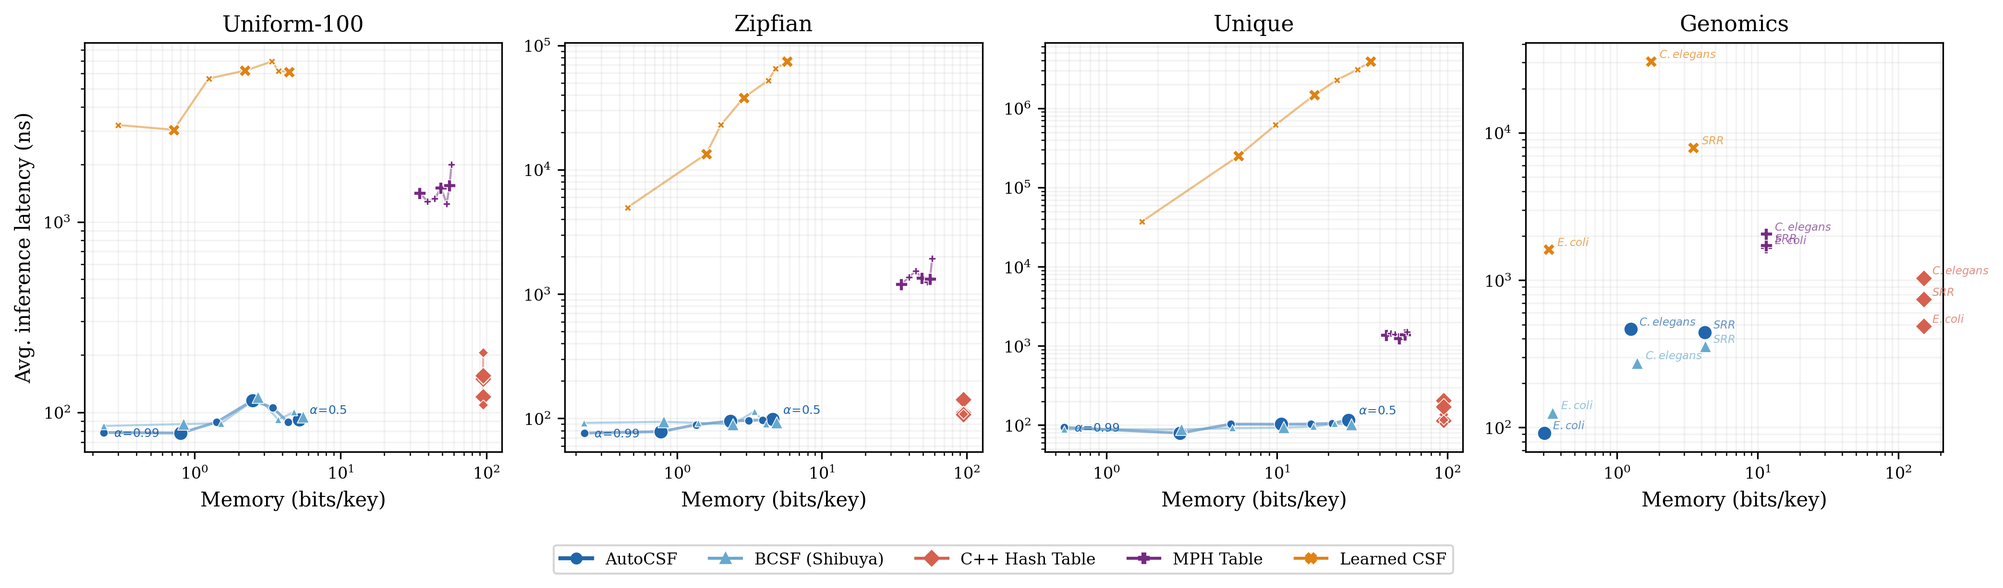
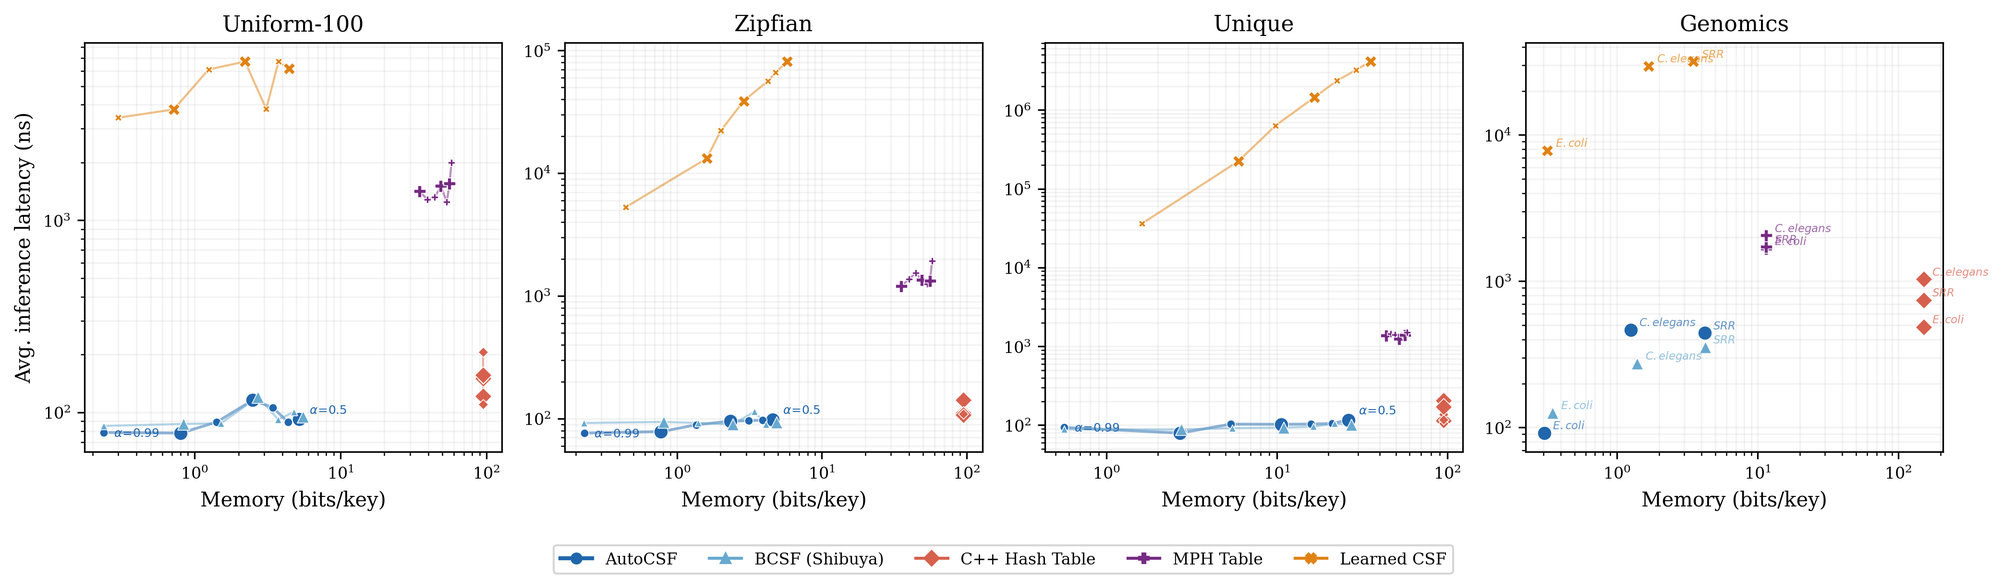
changes

diff --git a/artifacts/AutoCSF/AutoCSF.md b/artifacts/AutoCSF/AutoCSF.md
@@ -456,7 +456,7 @@ which, as expected, is greater than 0.
 \includegraphics[width=\textwidth]{vldb2026/figures/theory_validation/alpha_sweep_uniform_100.png}
 \end{center}
 
-\caption{Results of sweeping $\alpha$ for each distribution across all five filter types.}
+\caption{Results of sweeping $\alpha$ for each distribution across all four filter types. Each panel plots the lower bound (blue dashed), best empirical savings (red dashed), and the upper bound at the theory-guided and empirical-best parameters (light and dark blue solid). The vertical dashed line marks where the lower bound crosses zero.}
 \label{fig:alpha_sweep}
 \end{figure*}
 
@@ -466,7 +466,7 @@ The AutoCSF algorithm is based on three theoretical claims:
     \item The sign of the lower bound provides a reliable decision criterion for when filtering is beneficial.
     \item Maximizing the lower bound over the filter's parameter space yields the parameter with the largest provable space savings.
 \end{enumerate}
-In this section, we evaluate each of these claims empirically. Our goal is to determine whether the bounds are tight enough to be practically useful, whether the decision criterion produces false positives or false negatives, and how much regret (if any) the theory-guided parameter incurs relative to an exhaustive search over all discrete parameter settings.
+In this section, we evaluate each of these claims empirically. Our goal is to determine whether the bounds are tight enough to be practically useful, whether the decision criterion produces false positives or false negatives, and how much space the theory-guided parameter sacrifices, if any, relative to an exhaustive search over all discrete parameter settings.
 
 We construct synthetic key-value datasets that sweep the majority fraction $\alpha$ from 0.50 to 0.99 and evaluate three minority value distributions that span a range of minority entropy.
 \begin{itemize}
@@ -474,9 +474,9 @@ We construct synthetic key-value datasets that sweep the majority fraction $\alp
     \item \textbf{Zipfian}: power-law with exponent $s = 1.5$.
     \item \textbf{Uniform-100}: values drawn uniformly from 100 symbols.
 \end{itemize}
-We evaluated five types of filters: XOR filter, binary fuse filter, and Bloom filters with $k \in \{1, 2, 3\}$ hash functions.
+We evaluated four types of filters: XOR filter, binary fuse filter, and Bloom filters with $k \in \{1, 3\}$ hash functions.
 
-Figure ~\ref{fig:alpha_sweep} shows the results of sweeping $\alpha$ for each distribution across all five filter types. In each panel, the shaded region represents the gap between our lower bound (Theorem 5.2) and upper bound (Theorem 5.4), the green curve shows the empirical savings achieved by the theory-guided parameter, and the red curve shows the best empirical savings found via exhaustive search.
+Figure~\ref{fig:alpha_sweep} shows the results of sweeping $\alpha$ for each distribution across all four filter types. Each panel plots four curves: the lower bound (blue dashed), best empirical savings (red dashed), and the upper bound evaluated at the theory-guided parameter (light blue solid) and at the empirical-best parameter (dark blue solid). A vertical dashed line marks where the lower bound crosses zero.
 
 \begin{figure*}[!t]
 \begin{center}
@@ -507,14 +507,14 @@ Figure ~\ref{fig:alpha_sweep} shows the results of sweeping $\alpha$ for each di
 \end{center}
 
 
-\caption{Results of sweeping $\epsilon$ for each distribution across all five filter types.}
+\caption{Results of sweeping $\epsilon$ for each distribution across all four filter types.}
 \label{fig:epsilon_sweep}
 \end{figure*}
 
 
 \subsection{Bound Tightness}
 
-Figure~\ref{fig:alpha_sweep} shows four curves per panel. The \emph{lower bound} (blue dashed) is Theorem~5.2 evaluated at the discrete parameter $\varepsilon_{\mathrm{LB}}$ that maximizes the lower bound. The \emph{best empirical} curve (red) is the measured bits/key saved at the discrete parameter $\varepsilon_{\mathrm{emp}}$ that yields the largest savings, found by exhaustive filter-parameter search  measured over real AutoCSF objects. We also plot the upper bound (Theorem~5.4) evaluated at two $\varepsilon$ values: $\varepsilon_{\mathrm{LB}}$ and $\varepsilon_{\mathrm{emp}}$.
+Figure~\ref{fig:alpha_sweep} shows four curves per panel. The \emph{lower bound} (blue dashed) is Theorem~5.2 evaluated at the discrete parameter $\varepsilon_{\mathrm{LB}}$ that maximizes the lower bound. The \emph{best empirical} curve (red dashed) is the measured bits/key saved at the discrete parameter $\varepsilon_{\mathrm{emp}}$ that yields the largest savings, found by exhaustive search over discrete filter parameters. The \emph{UB at $\varepsilon_{\mathrm{LB}}$} curve (light blue solid) is the upper bound (Theorem~5.4) evaluated at the theory-guided parameter, and the \emph{UB at $\varepsilon_{\mathrm{emp}}$} curve (dark blue solid) is the upper bound at the empirical-best parameter. A vertical dashed line marks the $\alpha$ value where the lower bound crosses zero, indicating the decision boundary for filter augmentation.
 
 We observe that across all filter-distribution combinations and all 50 values of $\alpha$, the empirical savings consistently fall between the lower bound and the upper bound at $\varepsilon_{\mathrm{emp}}$. We note that this is not a formal proof of correctness. The bounds assume a continuous $\varepsilon$ while the experiments operate over discrete filter parameters, and the measured space includes implementation overheads (metadata, alignment) not captured by the theory. Nonetheless, empirical values stay within the predicted range across all configurations, which provides strong evidence that the bounds are practically valid.
 
@@ -527,7 +527,7 @@ To further validate AutoCSF, we sweep the false positive rate $\varepsilon$ acro
 
 \textbf{Decision criterion.} The lower bound crossing zero provides a decision boundary: when $\text{LB} > 0$ at the theory-optimal $\varepsilon^*$, AutoCSF recommends filtering; otherwise, it defaults to a plain CSF. Across all filter types, distributions, and $\alpha$ values in the alpha sweep, we find that whenever the lower bound recommends filtering, the empirical savings are positive, i.e. the criterion never recommends a filter that increases space. The criterion is conservative, however, for the unique distribution: there is a range of $\alpha$ values (roughly $0.71$--$0.80$ for XOR) where filtering produces small empirical savings (${\sim}0.05$--$0.2$ bits/key) but the lower bound remains negative. This gap is driven by the $n/N$ term, which is large for the unique distribution where $n \approx N(1-\alpha)$. For zipfian and uniform-100, where $n/N \approx 0$, the lower bound crossing aligns closely with the point at which filtering first becomes empirically helpful.
 
-\textbf{Parameter selection.} In practice, AutoCSF does not need to solve for the continuous optimum $\varepsilon^*$. Instead, it enumerates all discrete filter configurations (e.g., fingerprint\_bits $\in \{1, \ldots, 8\}$ for XOR filters, or all $(k, \text{bpe})$ pairs for Bloom filters) and selects the configuration whose lower bound is largest. This discrete search is inexpensive. The parameter space is small and sidesteps any mismatch between the continuous optimum and the nearest discrete parameter. To evaluate how well the lower bound serves as a proxy for actual savings, we compare the parameter selected by the lower bound against the empirically optimal parameter found by exhaustive search. The two agree in the large majority of cases, and when they disagree it is always by a single discrete step, with the theory-guided parameter saving at most $0.02$ bits/key less than the empirical optimum.
+\textbf{Parameter selection.} In practice, each filter type admits only a small set of discrete configurations (e.g., fingerprint\_bits $\in \{1, \ldots, 8\}$ for XOR filters, or all $(k, \text{bpe})$ pairs for Bloom filters), each corresponding to a specific $\varepsilon$. AutoCSF evaluates the lower bound at each available $\varepsilon$ and selects the configuration whose lower bound is largest. This search is inexpensive since the parameter space is small, and it avoids any mismatch between a continuous optimum and the discrete $\varepsilon$ values that filters can actually realize. To evaluate how well the lower bound serves as a proxy for actual savings, we compare the parameter selected by the lower bound against the empirically optimal parameter found by exhaustive search. The two agree in the large majority of cases, and when they disagree it is always by a single discrete step, with the theory-guided parameter saving at most $0.02$ bits/key less than the empirical optimum.
 
 \subsection{Comparison with Prior Work}
 
@@ -542,7 +542,7 @@ The closest prior work to AutoCSF is the Bloom-enhanced CSF (BCSF) of Shibuya et
 To compare the two approaches, we restrict AutoCSF to Bloom filters only (selecting the best $(k, \text{bpe})$ pair via the lower bound) and measure the resulting bits per key across all three distributions. Figure~\ref{fig:shibuya_bpk} shows the measured bits per key for each method alongside a no-filter baseline.
 
 
-The comparison reveals a clear difference in the \emph{decision} to filter. At low $\alpha$, the heuristic recommends filter configurations that \emph{increase} space usage relative to a plain CSF, with the heuristic curve exceeding the no-filter baseline by up to 1 bit/key for the unique distribution at $\alpha = 0.50$. This gap persists across all three distributions up to $\alpha \approx 0.7$--$0.8$ depending on the minority entropy. AutoCSF avoids this by defaulting to a plain CSF whenever the lower bound is negative. When filtering \emph{is} beneficial (roughly $\alpha \gtrsim 0.8$), both methods achieve comparable space usage, with AutoCSF matching or slightly improving upon the heuristic. These results confirm that AutoCSF improves upon the heuristic both in the decision of when to apply a filter and in the selection of filter parameters.
+The comparison reveals a clear difference in the \emph{decision} to filter. At low $\alpha$, the heuristic recommends filter configurations that \emph{increase} space usage relative to a plain CSF, with the heuristic curve exceeding the no-filter baseline by up to 1 bit/key for the unique distribution at $\alpha = 0.50$. This gap persists across all three distributions up to $\alpha \approx 0.7$--$0.8$ depending on the minority entropy. AutoCSF avoids this by defaulting to a plain CSF whenever the lower bound is negative. When filtering \emph{is} beneficial (roughly $\alpha \gtrsim 0.8$), both methods achieve comparable space usage, with AutoCSF matching or improving upon the heuristic. These results confirm that AutoCSF improves upon the heuristic both in the decision of when to apply a filter and in the selection of filter parameters.
 
 
 
@@ -561,7 +561,7 @@ We restrict both methods to Bloom filters in this comparison for fairness, since
 \section{Experiments}
 
 
-The previous section validates AutoCSF's theoretical bounds and decision criterion in isolation. We now evaluate AutoCSF as a complete, end-to-end index and compare it against four baselines that span the landscape of practical approaches to static key-value indexing. Our goal is to answer three questions: (1)~Does AutoCSF's theory-guided filter selection translate into real space savings over competing methods? (2)~What is the latency cost, if any, of filter-augmented CSFs? (3)~How do these trade-offs change on real-world genomics workloads where the value distributions are not synthetically controlled?
+The previous section validates AutoCSF's theoretical bounds and decision criterion in isolation. We now evaluate AutoCSF as a complete, end-to-end index and compare it against four baselines that span the landscape of practical approaches to static key-value indexing. Our goal is to answer three questions: (1)~Does AutoCSF's theory-guided filter selection translate into real space savings over competing methods? (2)~What are the latency and construction costs, if any, of filter-augmented CSFs? (3)~How do these trade-offs change on real-world workloads where the value distributions are not synthetically controlled?
 
 \subsection{Baselines}
 
@@ -570,16 +570,16 @@ We compare AutoCSF against the following methods:
 \begin{itemize}
 \item \textbf{BCSF (Shibuya)}~\cite{shibuya2022space}. The Bloom-enhanced CSF described in Section~3. We use \citeauthor{shibuya2022space}'s heuristic cost model to set the Bloom filter parameters. This baseline isolates the effect of AutoCSF's improved parameter selection: both methods use a CSF with a pre-filter, but differ in how the filter parameters are chosen.
 
-\item \textbf{Sux4J CSF}~\cite{genuzio2020fast}. The standalone CSF implementation in Java. This is the CSF without any filter augmentation, representing the ``plain CSF'' baseline that AutoCSF improves upon when $\alpha$ is sufficiently large. 
+\item \textbf{C++ Hash Table}. A standard \texttt{std::unordered\_map} storing all key-value pairs. This baseline represents the naive approach with no compression, providing a reference point for memory usage and query latency.
 
 \item \textbf{MPH Table}. A minimal perfect hash function (via Sux4J's GOV construction~\cite{genuzio2020fast}) paired with a compact value array. This is a distribution-agnostic baseline as it does not exploit value skew and its memory usage depends only on the vocabulary size.
 
-\item \textbf{Learned CSF}~\cite{hermann2025learned}. A learned static function that replaces the linear-system solver in a CSF with a small neural network trained to predict Huffman codes from keys. The model is augmented with a Bloom filter and a correction table. This method typically achieves the smallest memory footprint, but at the cost of significantly higher query latency and construction time due to model training.
+\item \textbf{Learned CSF}~\cite{hermann2025learned}. A learned static function that replaces the linear-system solver in a CSF with a small neural network trained to predict Huffman codes from keys. The model is augmented with a Bloom filter and a correction table. On low-entropy distributions this method can achieve a smaller memory footprint than AutoCSF, but at the cost of  higher query latency and construction time due to model training.
 \end{itemize}
 
 \subsection{Setup}
 
-\textbf{Synthetic datasets.} We generate key-value datasets with $N = 100{,}000$ keys, sweeping the majority fraction $\alpha$ from 0.50 to 0.99. The majority value is assigned to an $\alpha$-fraction of keys uniformly at random; the remaining $(1-\alpha)N$ minority keys draw values from one of three distributions: \emph{Uniform-100} (100 equally likely symbols), \emph{Zipfian} (power-law with exponent $s = 1.5$), and \emph{Unique} (every minority key has a distinct value). These distributions span a wide range of minority entropy, from low (Uniform-100) to maximal (Unique), and stress-test different aspects of each method's compression strategy.
+\textbf{Synthetic datasets.} We generate key-value datasets with $N = 100{,}000$ keys, sweeping the majority fraction $\alpha$ from 0.50 to 0.99. The majority value is assigned to an $\alpha$-fraction of keys uniformly at random; the remaining $(1-\alpha)N$ minority keys draw values from one of three distributions: \emph{Uniform-100} (100 equally likely symbols), \emph{Zipfian} (power-law with exponent $s = 1.5$), and \emph{Unique} (every minority key has a distinct value). These distributions span a wide range of minority entropy and stress-test different aspects of each method's compression strategy.
 
 \textbf{Genomics datasets.} We evaluate on the three real $k$-mer count datasets used in \cite{shibuya2022space} derived from whole-genome sequencing data, using $k = 15$:
 \begin{itemize}
@@ -589,7 +589,7 @@ We compare AutoCSF against the following methods:
 \end{itemize}
 These datasets exhibit the diversity of real genomics workloads: E.\ coli has extreme skew ($\alpha = 0.97$) with very few distinct values, SRR has low skew ($\alpha = 0.20$) with moderate vocabulary, and C.\ elegans is a large-scale dataset (70M keys) with intermediate skew.
 
-\textbf{Metrics.} We report three metrics: \emph{memory} in bits per key (bpk), \emph{query latency} as the mean inference time per key in nanoseconds, and \emph{construction time} in seconds. For AutoCSF and BCSF, we use binary fuse filters~\cite{graf2020xor}, which offer lower false positive rates per bit than Bloom filters. All experiments are run on an M4 Macbook Pro.
+\textbf{Metrics.} We report three metrics: \emph{memory} in bits per key (bpk), \emph{query latency} as the mean inference time per key in nanoseconds, and \emph{construction time} in seconds. For AutoCSF and BCSF, we use binary fuse filters~\cite{graf2020xor}, which offer lower false positive rates per bit than Bloom filters. 
 
 \subsection{Synthetic Benchmarks}
 
@@ -603,21 +603,12 @@ These datasets exhibit the diversity of real genomics workloads: E.\ coli has ex
 \end{figure*}
 
 
-Several patterns emerge from the Pareto plot. AutoCSF and BCSF consistently occupy the lower-left corner of the Pareto frontier---low memory \emph{and} low latency---across all three distributions. Sux4J CSF uses comparable memory at low $\alpha$ but carries a latency penalty of 30--90\% over AutoCSF (due to our faster C++ implementation), and its memory advantage disappears at high $\alpha$ where it cannot exploit the majority value. MPH Table uses 5--20$\times$ more memory than AutoCSF and its latency is 4--7$\times$ higher. Learned CSF achieves the tightest memory on several operating points, most notably on the Unique distribution, where its learned model captures per-key structure that analytical methods cannot exploit (e.g., 6.9~bpk vs.\ AutoCSF's 10.6~bpk at $\alpha = 0.8$). However, this memory advantage comes at a steep cost in query latency: 1--4 orders of magnitude higher than AutoCSF, ranging from 6$\mu$s on Uniform-100 to 77$\mu$s on Zipfian at $\alpha = 0.5$ and up to 4 \emph{seconds} per query on Unique at $\alpha = 0.5$. The log-log scale in Figure~\ref{fig:pareto} is necessary to display these extremes on the same axes.
-
-\textbf{Memory scaling with $\alpha$.} Figure~\ref{fig:mem_alpha} isolates the memory dimension by plotting bits per key against $\alpha$ for each distribution. As $\alpha$ increases, all CSF-based methods improve because there is less minority entropy to encode. AutoCSF and BCSF track each other closely, with AutoCSF achieving a 5--10\% memory advantage due to better filter parameter selection. Sux4J CSF is competitive at low $\alpha$ (e.g., 5.0 vs.\ 5.2~bpk at $\alpha = 0.5$, Uniform-100) but diverges at high $\alpha$: at $\alpha = 0.99$, Sux4J uses 1.4~bpk versus AutoCSF's 0.2~bpk, a 7$\times$ gap, because it cannot filter out the majority value. MPH Table's memory \emph{increases} with $\alpha$ (from 35 to 58~bpk) because its per-key cost is fixed by the vocabulary size, not the frequency distribution.
-
-\begin{figure*}[t]
-\centering
-\includegraphics[width=\textwidth]{vldb2026/figures/theory_validation/paper_memory_vs_alpha.png}
-\caption{Memory (bits/key) vs.\ majority fraction $\alpha$ for the three synthetic distributions. AutoCSF and BCSF exploit increasing skew; Sux4J CSF improves more slowly; MPH Table is distribution-agnostic.}
-\label{fig:mem_alpha}
-\end{figure*}
+Several patterns emerge from the Pareto plot. AutoCSF and BCSF consistently occupy the lower-left corner of the Pareto frontier---low memory \emph{and} low latency---across all three distributions. The hash table offers competitive latency (107--204~ns) but does not compress the data. MPH Table uses 7--70$\times$ more memory than AutoCSF and its latency is 10--20$\times$ higher. Learned CSF achieves the tightest memory on Uniform-100 (e.g., 4.4 vs.\ 5.2~bpk at $\alpha = 0.5$), but on Zipfian and Unique, AutoCSF matches or outperforms it in memory while maintaining 2--4 orders of magnitude lower query latency. On Unique, Learned CSF uses 35.4~bpk versus AutoCSF's 26.3~bpk at $\alpha = 0.5$, with query latency of 4.1 \emph{seconds} compared to AutoCSF's 116~ns. The log-log scale in Figure~\ref{fig:pareto} is necessary to display these extremes on the same axes.
 
 
-The Unique distribution is the hardest case for all methods: at $\alpha = 0.5$, half the keys have distinct values, so the CSF must store nearly $\log_2(N/2) \approx 16$ bits of entropy per minority key. AutoCSF (26.3~bpk) outperforms Sux4J CSF (41.9~bpk) by 37\%  due to implementation differences in our C++ package. Learned CSF achieves the best memory on this distribution (11.4~bpk at $\alpha = 0.5$), as the learned model can exploit per-key patterns that are invisible to Huffman coding. However, as Table~\ref{tab:synthetic} shows, this memory advantage comes at higher latency (4M~ns) and construction time (16 minutes). At higher skew ($\alpha = 0.95$), AutoCSF closes the gap to 2.7~bpk vs.\ Learned CSF's 3.5~bpk, with $1{,}300\times$ faster queries.
+The Unique distribution is the hardest case for all methods: at $\alpha = 0.5$, half the keys have distinct values, so the CSF must store nearly $\log_2(N/2) \approx 16$ bits of entropy per minority key. AutoCSF achieves 26.3~bpk, outperforming Learned CSF (35.4~bpk) by 26\% while being $35{,}000\times$ faster in query latency (116~ns vs.\ 4.1M~ns) and $15{,}000\times$ faster to construct (0.067~s vs.\ 1{,}011~s). At higher skew ($\alpha = 0.95$), AutoCSF widens the gap to 2.7~bpk vs.\ Learned CSF's 5.9~bpk, with $2{,}800\times$ faster queries.
 
-\textbf{Construction time.} Table~\ref{tab:synthetic} reports memory, latency, and construction time for all five methods at $\alpha \in \{0.5, 0.8, 0.95\}$. AutoCSF and BCSF build in under 0.1 seconds across all configurations. Sux4J CSF is 5--10$\times$ slower due to implementation improvements (our implementation in C++). MPH Table is comparable to Sux4J in construction time. Learned CSF is the most expensive to build: 5--983 seconds depending on distribution complexity, with the Unique distribution requiring over 16 minutes at $\alpha = 0.5$ due to the large number of distinct values the model must learn. At $\alpha = 0.95$ on Uniform-100, where Learned CSF's memory advantage over AutoCSF is only 0.1~bpk, it takes 320$\times$ longer to construct.
+\textbf{Construction time.} Table~\ref{tab:synthetic} reports memory, latency, and construction time for all five methods at $\alpha \in \{0.5, 0.8, 0.95\}$. AutoCSF and BCSF build in under 0.1 seconds across all configurations. C++ Hash Table is the fastest to construct (${\sim}0.006$~s). MPH Table builds in 0.4--0.6 seconds. Learned CSF is the most expensive to build: 7--1{,}011 seconds depending on distribution complexity, with the Unique distribution requiring over 16 minutes at $\alpha = 0.5$ due to the large number of distinct values the model must learn. At $\alpha = 0.95$ on Uniform-100, where Learned CSF's memory advantage over AutoCSF is only 0.1~bpk, it takes 719$\times$ longer to construct.
 
 \begin{table*}[t]
 \centering
@@ -628,27 +619,27 @@ Method & bpk & ns & build (s) & bpk & ns & build (s) & bpk & ns & build (s) \\
 \midrule
 \multicolumn{10}{c}{\emph{Uniform-100}} \\
 \midrule
-AutoCSF & 5.2 & \textbf{239} & 0.043 & 2.5 & 255 & \textbf{0.027} & 0.8 & \textbf{178} & \textbf{0.018} \\
-BCSF (Shibuya) & 5.5 & 319 & \textbf{0.042} & 2.7 & \textbf{250} & 0.027 & 0.8 & 214 & 0.019 \\
-Sux4J CSF & 5.0 & 346 & 0.415 & 2.8 & 337 & 0.184 & 1.7 & 326 & 0.189 \\
+AutoCSF & 5.2 & \textbf{92} & 0.030 & 2.5 & \textbf{116} & 0.030 & 0.8 & \textbf{78} & 0.013 \\
+BCSF (Shibuya) & 5.5 & 95 & 0.028 & 2.7 & 120 & 0.020 & 0.8 & 87 & 0.008 \\
+C++ Hash Table & 95.1 & 150 & \textbf{0.006} & 95.1 & 121 & \textbf{0.006} & 95.1 & 157 & \textbf{0.007} \\
 MPH Table & 35.0 & 1412 & 0.569 & 49.0 & 1505 & 0.438 & 55.9 & 1551 & 0.572 \\
-Learned CSF & \textbf{4.4} & 6435 & 5.173 & \textbf{2.2} & 6160 & 5.480 & \textbf{0.7} & 3199 & 5.733 \\
+Learned CSF & \textbf{4.4} & 6153 & 6.977 & \textbf{2.2} & 6708 & 8.562 & \textbf{0.7} & 3779 & 9.348 \\
 \midrule
 \multicolumn{10}{c}{\emph{Zipfian}} \\
 \midrule
-AutoCSF & \textbf{4.6} & \textbf{265} & 0.036 & \textbf{2.3} & \textbf{239} & \textbf{0.023} & \textbf{0.8} & \textbf{180} & \textbf{0.017} \\
-BCSF (Shibuya) & 4.9 & 283 & \textbf{0.035} & 2.4 & 247 & 0.027 & 0.8 & 229 & 0.019 \\
-Sux4J CSF & 5.0 & 397 & 0.291 & 2.9 & 355 & 0.185 & 1.8 & 333 & 0.169 \\
+AutoCSF & \textbf{4.6} & 98 & 0.025 & \textbf{2.3} & 95 & 0.014 & \textbf{0.8} & \textbf{78} & 0.007 \\
+BCSF (Shibuya) & 4.9 & \textbf{93} & 0.026 & 2.4 & \textbf{90} & 0.013 & 0.8 & 94 & 0.008 \\
+C++ Hash Table & 95.1 & 111 & \textbf{0.006} & 95.1 & 142 & \textbf{0.006} & 95.1 & 107 & \textbf{0.006} \\
 MPH Table & 35.4 & 1195 & 0.569 & 49.2 & 1344 & 0.490 & 56.0 & 1323 & 0.470 \\
-Learned CSF & 4.9 & 76811 & 32.064 & 2.4 & 39387 & 22.474 & 1.4 & 13530 & 13.284 \\
+Learned CSF & 5.8 & 81357 & 38.283 & 2.9 & 38756 & 28.065 & 1.6 & 13190 & 16.711 \\
 \midrule
 \multicolumn{10}{c}{\emph{Unique}} \\
 \midrule
-AutoCSF & 26.3 & \textbf{372} & \textbf{0.081} & 10.6 & \textbf{282} & \textbf{0.047} & \textbf{2.7} & \textbf{188} & \textbf{0.025} \\
-BCSF (Shibuya) & 27.3 & 400 & 0.084 & 11.0 & 341 & 0.051 & 2.7 & 236 & 0.026 \\
-Sux4J CSF & 41.9 & 667 & 0.559 & 17.2 & 377 & 0.339 & 5.1 & 330 & 0.198 \\
+AutoCSF & \textbf{26.3} & 116 & 0.067 & \textbf{10.6} & 103 & 0.032 & \textbf{2.7} & \textbf{79} & 0.012 \\
+BCSF (Shibuya) & 27.3 & \textbf{101} & 0.057 & 11.0 & \textbf{93} & 0.026 & 2.7 & 88 & 0.012 \\
+C++ Hash Table & 95.1 & 114 & \textbf{0.007} & 95.1 & 204 & \textbf{0.006} & 95.1 & 171 & \textbf{0.006} \\
 MPH Table & 43.9 & 1363 & 0.496 & 52.2 & 1236 & 0.487 & 56.4 & 1390 & 0.472 \\
-Learned CSF & \textbf{11.4} & 3997545 & 983.000 & \textbf{6.9} & 1431918 & 359.657 & 3.5 & 243241 & 85.772 \\
+Learned CSF & 35.4 & 4123112 & 1011.367 & 16.5 & 1440552 & 381.668 & 5.9 & 223807 & 69.562 \\
 \bottomrule
 \end{tabular}
 \caption{Synthetic benchmark results ($N = 100{,}000$). Memory in bits/key (bpk), query latency in nanoseconds (ns), and construction time in seconds. \textbf{Bold} indicates best in each column.}
@@ -665,29 +656,28 @@ Table~\ref{tab:genomics} reports results on the three genomics datasets. The dat
  & \multicolumn{3}{c}{E.\ coli ($n$=5.3M, $\alpha$=0.97)} & \multicolumn{3}{c}{SRR ($n$=9.8M, $\alpha$=0.20)} & \multicolumn{3}{c}{C.\ elegans ($n$=69.7M, $\alpha$=0.82)} \\
 Method & bpk & ns & build (s) & bpk & ns & build (s) & bpk & ns & build (s) \\
 \midrule
-AutoCSF & \textbf{0.30} & \textbf{335} & \textbf{0.7} & 4.20 & \textbf{458} & \textbf{4.3} & \textbf{1.23} & 394 & \textbf{13.7} \\
-BCSF (Shibuya) & 0.34 & 432 & 0.9 & 4.23 & 594 & 4.4 & 1.36 & \textbf{386} & 15.1 \\
-Sux4J CSF & 1.24 & 598 & 1.3 & 3.59 & 621 & 4.6 & 1.59 & 853 & 17.8 \\
+AutoCSF & \textbf{0.31} & \textbf{92} & \textbf{0.2} & 4.21 & 443 & 2.3 & \textbf{1.26} & 466 & \textbf{6.6} \\
+BCSF (Shibuya) & 0.35 & 126 & 0.3 & 4.24 & \textbf{355} & 2.3 & 1.39 & \textbf{274} & 7.0 \\
+C++ Hash Table & 152.00 & 488 & 0.8 & 152.00 & 742 & \textbf{1.5} & 152.00 & 1034 & 15.2 \\
 MPH Table & 11.55 & 1666 & 8.1 & 11.55 & 1716 & 13.6 & 11.55 & 2054 & 136.3 \\
-Learned CSF & 0.33 & 1725 & 127.4 & \textbf{3.49} & 8312 & 501.4 & --- & --- & --- \\
+Learned CSF & 0.32 & 7843 & 161.0 & \textbf{3.49} & 31811 & 676.9 & 1.68 & 29558 & 4573.5 \\
 \bottomrule
 \end{tabular}
-\caption{Genomics benchmark results. Memory in bits/key (bpk), query latency in nanoseconds (ns), and construction time in seconds. ``---'' indicates we did not complete the experiment due to lack of time. \textbf{Bold} indicates best in each column.}
+\caption{Genomics benchmark results. Memory in bits/key (bpk), query latency in nanoseconds (ns), and construction time in seconds. \textbf{Bold} indicates best in each column.}
 \label{tab:genomics}
 \end{table*}
 
-On E.\ coli, where $\alpha = 0.97$, AutoCSF achieves 0.30~bpk, less than one-third of a bit per key to index 5.3 million $k$-mers. This is $4.1\times$ smaller than Sux4J CSF (1.24~bpk), which cannot exploit the extreme majority dominance, and $38\times$ smaller than MPH Table (11.55~bpk). Learned CSF is competitive in memory (0.33~bpk) but requires 127 seconds to build versus AutoCSF's 0.7 seconds ($182\times$ slower) and has $5.1\times$ higher query latency.
+On E.\ coli, where $\alpha = 0.97$, AutoCSF achieves 0.31~bpk, less than one-third of a bit per key to index 5.3 million $k$-mers. This is $37\times$ smaller than MPH Table (11.55~bpk). Learned CSF is competitive in memory (0.32~bpk) but requires 161 seconds to build versus AutoCSF's 0.2 seconds ($805\times$ slower) and has $85\times$ higher query latency (7{,}843~ns vs.\ 92~ns).
 
-The SRR dataset ($\alpha = 0.20$) represents a case where filter augmentation is not beneficial. Here, Sux4J CSF achieves the best memory (3.59~bpk) among non-learned methods. AutoCSF (4.20~bpk) uses slightly more memory than Sux4J due to differences in our underlying CSF implementation rather than filter overhead. Despite this, AutoCSF achieves the fastest query latency (458~ns vs.\ Sux4J's 621~ns). Learned CSF achieves the best memory (3.49~bpk) but at a cost: 501 seconds to build ($117\times$ slower than AutoCSF) and $18\times$ higher query latency (8312~ns vs.\ 458~ns).
+The SRR dataset ($\alpha = 0.20$) represents a case where filter augmentation is not beneficial. AutoCSF correctly defaults to a plain CSF, achieving 4.21~bpk with 443~ns query latency. Learned CSF achieves the best memory (3.49~bpk) but at a cost: 677 seconds to build ($294\times$ slower than AutoCSF) and $72\times$ higher query latency (31{,}811~ns vs.\ 443~ns).
 
-
-On C.\ elegans ($n = 69.7$M, $\alpha = 0.82$), AutoCSF scales to the largest dataset while maintaining its advantages: 1.23~bpk with 394~ns latency and a 13.7-second build time. For context, this means the entire 70-million-entry $k$-mer count table is indexed in approximately 10.7~MB of memory. MPH Table would require 100.6~MB for the same data, and Sux4J CSF uses 13.8~MB. We did not complete our experiments for Learned CSF on this dataset (due to lack of time).
+On C.\ elegans ($n = 69.7$M, $\alpha = 0.82$), AutoCSF scales to the largest dataset while maintaining its advantages: 1.26~bpk with 466~ns latency and a 6.6-second build time. For context, this means the entire 70-million-entry $k$-mer count table is indexed in approximately 11~MB of memory. MPH Table would require 100.6~MB for the same data. Learned CSF uses 1.68~bpk (33\% more memory than AutoCSF) with 29{,}558~ns latency ($63\times$ slower) and requires over 76 minutes to build.
 
 \subsection{Discussion}
 
-Across all experiments, a consistent picture emerges. AutoCSF dominates the Pareto frontier of memory versus latency whenever the majority fraction $\alpha$ is moderate to high ($\gtrsim 0.7$), which is precisely the regime where filter augmentation is most beneficial and where many real-world workloads---especially in genomics---operate. The margin over heuristic construction is modest (5--13\% in memory) but systematic, confirming that the theory-guided parameter selection from Section~4 translates to measurable improvements in practice over the heuristic approach.
+Across all experiments, a consistent picture emerges. AutoCSF dominates the Pareto frontier of memory versus latency, especially when the majority fraction $\alpha$ is moderate to high ($\gtrsim 0.7$). The margin over heuristic construction is modest (up to 11\% in memory) but systematic, confirming that the theory-guided parameter selection from Section~4 translates to measurable improvements in practice over the heuristic approach.
 
-The comparison with Learned CSF is particularly instructive. Learned CSF occasionally achieves slightly lower memory than AutoCSF (by 0.1--0.5~bpk), but this comes at the cost of latency and construction time. These results suggest that for practical deployments where query latency and build time matter, the marginal memory savings of learned approaches do not justify the overhead, especially when AutoCSF achieves comparable compression through a principled analytical framework that requires no model training.
+The comparison with Learned CSF is particularly instructive. On low-entropy distributions (Uniform-100), Learned CSF achieves modestly lower memory than AutoCSF, but on higher-entropy distributions (Zipfian, Unique), AutoCSF matches or substantially outperforms Learned CSF in memory while maintaining 2--4 orders of magnitude lower query latency. These results suggest that for practical deployments where query latency and build time matter, learned approaches provide limited benefit over a principled analytical framework that requires no model training.
 
 \section{Conclusion}
 
